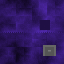
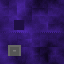
Flipping the heightmap images in the about box, oops. Also rewording some stuff.

diff --git a/about.html b/about.html
@@ -246,20 +246,23 @@
 						>
 							vertex lighting
 						</a>
-						was resource intensive. So to lend the terrain some definition, the
-						authors of the easter egg chose to bake in the brightness of the
-						ground's <em>vertices</em>, or points, based on how "pointy" they
-						were, ie. how far they extended from the surface— similar to the
-						browning on a piece of toast. This likely prompted them to cover the
-						landscape in sharp hills and spikes, which also visually alludes to
-						the charts their team was responsible for.
+						was resource intensive. To lend their terrain some definition, the
+						authors of the easter egg chose to bake a varying brightness into
+						the ground's <em>vertices</em>, or points, derived from how far they
+						extended from the surrounding surface. (It's a similar effect to the
+						browning on a toasted english muffin.) This likely prompted them to
+						cover the landscape in sharp hills and spikes, which also served as
+						an allusion to the charts their team was responsible for.
 					</p>
-					<h2>Why does it feel... clunky?</h2>
+					<h2>Why does it feel clunky?</h2>
+					<p>
+						That's an option you can disable.
+					</p>
 					<p>
 						For authenticity, this port's frame rate and drawing resolution are
-						throttled by default to match the limitations of conventional office
-						equipment from 1997, but this can be toggled in the toolbar, along
-						with some additional graphics modes:
+						throttled to match the limitations of conventional office equipment
+						from 1997, but these constraints can be toggled in the toolbar,
+						along with some additional graphics modes:
 					</p>
 					<table id="toolbar_legend">
 						<tbody>
@@ -356,7 +359,7 @@
 					<p>
 						After a few minutes of flying around, most users come to realize
 						that the world is like the surface of a torus— in other words, it
-						<em>repeats in every direction</em>— a fact concealed by the short
+						<em>loops in every direction</em>— a fact concealed by the short
 						drawing distance. But it may still surprise some to hear this whole
 						world is "charted" from a square "spreadsheet"
 						<em>only 64 cells wide.</em>
